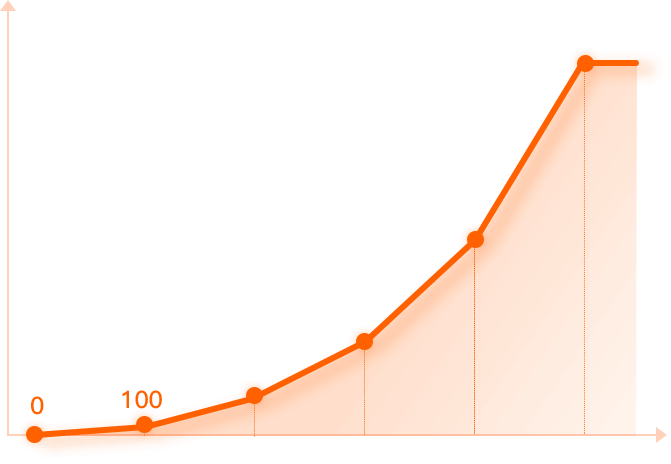
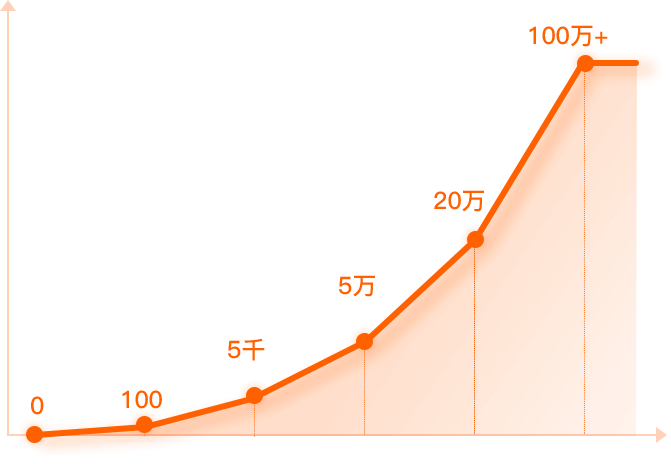
fix(membership):提升攻略图片更换

diff --git a/src/components/user-center/Membership.vue b/src/components/user-center/Membership.vue
@@ -8,6 +8,7 @@
         </div>
         <div class="content">会员体系共包含6个会员等级，会员等级由账户待收本金决定。</div>
         <div class="level">
+          <p class="Y-axis">待收本金(元)</p>
           <img src="../../images/membership/membership-level.png" alt="">
           <ul class="levelName">
             <li>普通</li>
@@ -106,6 +107,16 @@
     text-align: justify;
     font-weight: 500;
     line-height: 1.8;
+  }
+  .Membership-details .Membership-brief .level {
+    position: relative;
+  }
+  .Membership-details .Membership-brief .level .Y-axis {
+    position: absolute;
+    top: .2rem;
+    left: .2rem;
+    font-size: .23rem;
+	  color: #666666;
   }
   .Membership-details .Membership-brief .level img {
     width: 100%;
